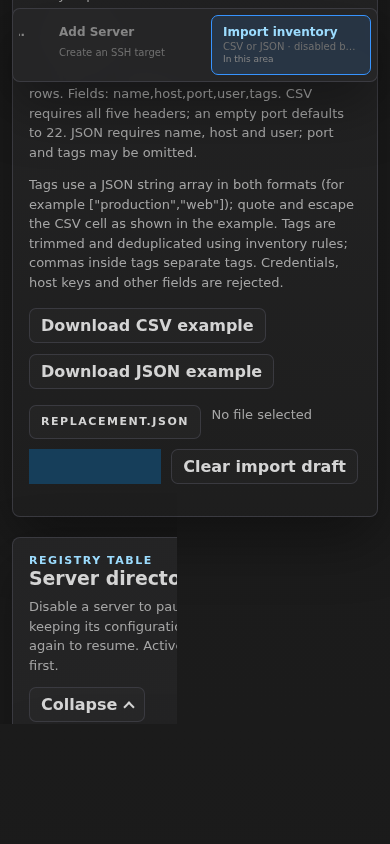
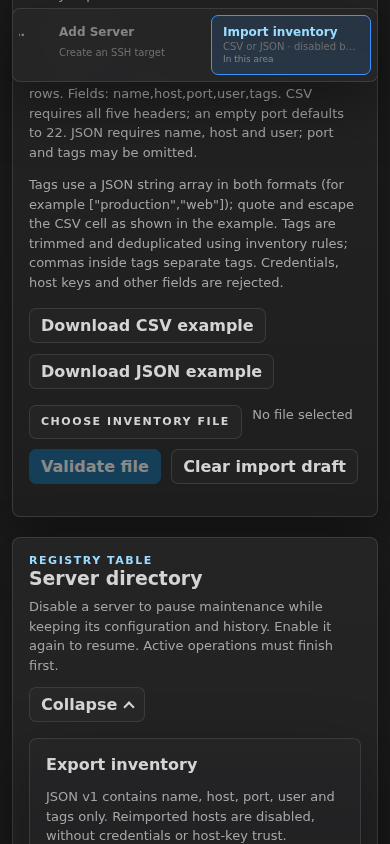
fix: keep inventory import file labels owned by its controller

diff --git a/tests/e2e/ui-components.spec.js b/tests/e2e/ui-components.spec.js
@@ -3,6 +3,7 @@ const { stubAdminApi, stubManageApi, stubDashboardApi, makeServer, fulfillJson }
 const fs = require('node:fs');
 const path = require('node:path');
 async function capture(page, testInfo, name) {
+    await page.evaluate(() => new Promise(resolve => requestAnimationFrame(() => requestAnimationFrame(resolve))));
     const image = await page.screenshot({ fullPage: false });
     await testInfo.attach(name, { body: image, contentType: 'image/png' });
     if (process.env.SLU_CAPTURE_UI_515) {
@@ -132,14 +133,21 @@ test('inventory file component has one state, visible keyboard focus, selection 
     await expect(trigger).toHaveCSS('outline-style', 'solid');
     await input.setInputFiles({ name: 'first.csv', mimeType: 'text/csv', buffer: Buffer.from('name,host,port,user,tags\nui-host,192.0.2.90,22,root,[]\n') });
     await expect(page.locator('#import-file-name')).toHaveText('first.csv');
+    await expect(page.locator('#inventory-import').getByText('first.csv', { exact: true })).toHaveCount(1);
+    await expect(input).toHaveAccessibleName('Choose inventory file');
     await expect(page.locator('#import-preview-button')).toBeEnabled();
     await input.setInputFiles({ name: 'replacement.json', mimeType: 'application/json', buffer: Buffer.from('[{"name":"ui-host","host":"192.0.2.90","user":"root"}]') });
     await expect(page.locator('#import-file-name')).toHaveText('replacement.json');
+    await expect(page.locator('#inventory-import').getByText('replacement.json', { exact: true })).toHaveCount(1);
+    await expect(input).toHaveAccessibleName('Choose inventory file');
     await page.locator('#import-preview-button').click();
     await expect(page.locator('#import-preview')).toBeVisible();
     await page.locator('#import-reset').click();
     await expect(page.locator('#import-file-name')).toHaveText('No file selected');
     await expect(input).toHaveValue('');
+    await expect(trigger).toHaveText('Choose inventory file');
+    await expect(input).toHaveAccessibleName('Choose inventory file');
+    await expect(page.locator('#inventory-import').getByText('replacement.json', { exact: true })).toHaveCount(0);
     await expect(page.locator('#import-preview-button')).toBeDisabled();
     await page.setViewportSize({ width: 390, height: 844 });
     await trigger.scrollIntoViewIfNeeded();

diff --git a/static/js/manage.js b/static/js/manage.js
@@ -1102,12 +1102,15 @@
 
         lifecycle.listen(document, "change", (e) => {
             if (e.target && e.target.classList.contains("file-input")) {
-                resetFileInputLabel(e.target);
                 const selectionIDs = {
                     "global-key-file": "global-key-file-selection",
                     key_file: "server-key-file-selection",
                     "edit-key": "edit-key-file-selection",
                 };
+                // Import owns its file state and keeps a stable trigger label.
+                // This legacy label effect belongs only to credential inputs.
+                if (!Object.hasOwn(selectionIDs, e.target.id)) return;
+                resetFileInputLabel(e.target);
                 const selection = document.getElementById(
                     selectionIDs[e.target.id],
                 );

diff --git a/templates/manage.html b/templates/manage.html
@@ -560,6 +560,6 @@
 <script src="/static/js/manage-audit-adapter.js?v=frontend-isolation-20261027"></script>
 <script src="/static/js/operational-exports.js?v=operational-exports-20261028"></script>
 <script src="/static/js/inventory-bulk.js?v=bulk-inventory-20261027"></script>
-<script src="/static/js/manage.js?v=section-navigation-aliases-20261029"></script>
+<script src="/static/js/manage.js?v=ui-components-515-file-label-20261029"></script>
 </body>
 </html>

diff --git a/.github/assets/ui-components-515/README.md b/.github/assets/ui-components-515/README.md
@@ -16,6 +16,8 @@ SLU_CAPTURE_UI_515=1 npm run test:e2e -- tests/e2e/ui-components.spec.js --worke
   cancellation and focus return.
 - `inventory-file-390.png` shows the shared file trigger and one filename/state.
   Tests exercise keyboard focus, CSV/JSON selection, replacement, preview and reset.
+  The trigger keeps its accessible name after selection and reset; the import
+  controller owns the filename independently from credential-file label effects.
 
 The negative control restored the previous styles/Manage markup temporarily and
 produced the expected failures for Manage alignment, confirmation footer spacing
